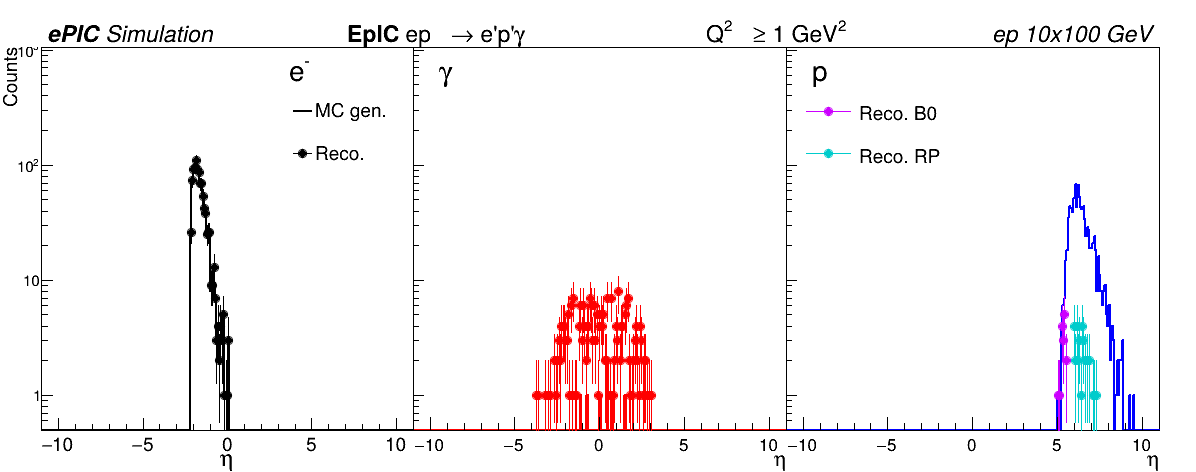
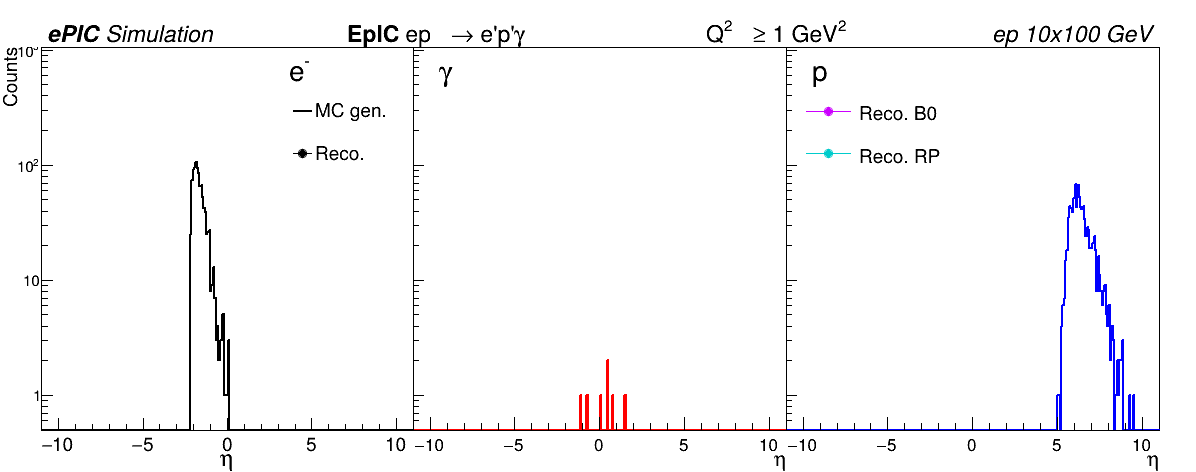
reconstructing x_L and 't' using B0

diff --git a/DDIS_TDR.cpp b/DDIS_TDR.cpp
@@ -209,39 +209,47 @@ void DDIS_TDR(TString fileList){
 
     unsigned int mc_assoc_index = -1;
     // LOOK FOR ELECTRONS AND PHOTONS (using ReconstructedParticleAssociations)
-    for(unsigned int iAssoc{0}; iAssoc < assoc_rec_id.GetSize(); iAssoc++){
-      mc_assoc_index = assoc_sim_id[iAssoc];
+    // for(unsigned int iAssoc{0}; iAssoc < assoc_rec_id.GetSize(); iAssoc++){
+    //   mc_assoc_index = assoc_sim_id[iAssoc];
 	
-      // If reco track isn't associated to an MC track, then skip
-      if(mc_assoc_index == -1) continue;
+    //   // If reco track isn't associated to an MC track, then skip
+    //   if(mc_assoc_index == -1) continue;
 	
-      assoctrk.SetXYZ(mc_px_array[mc_assoc_index], mc_py_array[mc_assoc_index], mc_pz_array[mc_assoc_index]); 
-      P3MVector q_assoc(assoctrk.X(),assoctrk.Y(),assoctrk.Z(),mc_mass_array[mc_assoc_index]);
-      undoAfterburn(q_assoc);
+    //   assoctrk.SetXYZ(mc_px_array[mc_assoc_index], mc_py_array[mc_assoc_index], mc_pz_array[mc_assoc_index]); 
+    //   P3MVector q_assoc(assoctrk.X(),assoctrk.Y(),assoctrk.Z(),mc_mass_array[mc_assoc_index]);
+    //   undoAfterburn(q_assoc);
 
-      recotrk.SetXYZ(re_px_array[iAssoc], re_py_array[iAssoc], re_pz_array[iAssoc]);
-      P3MVector q_reco(recotrk.X(),recotrk.Y(),recotrk.Z(),mc_mass_array[mc_assoc_index]);
-      undoAfterburn(q_reco);
+    //   recotrk.SetXYZ(re_px_array[iAssoc], re_py_array[iAssoc], re_pz_array[iAssoc]);
+    //   P3MVector q_reco(recotrk.X(),recotrk.Y(),recotrk.Z(),mc_mass_array[mc_assoc_index]);
+    //   undoAfterburn(q_reco);
 	
-      // Fill track vectors based on associated PID
-      // Electrons
-      if(mc_genStatus_array[mc_assoc_index] == 1 && mc_pdg_array[mc_assoc_index] == 11)	scate4_rec.push_back(q_reco); 
-      // Photons
-      if(mc_genStatus_array[mc_assoc_index] == 1 && mc_pdg_array[mc_assoc_index] == 22){ 
-	      scatg4_aso.push_back(q_assoc); 
-	      scatg4_rec.push_back(q_reco); 
-      }
-    } // End of associations loop
+    //   // Fill track vectors based on associated PID
+    //   // Electrons
+    //   if(mc_genStatus_array[mc_assoc_index] == 1 && mc_pdg_array[mc_assoc_index] == 11)	scate4_rec.push_back(q_reco); 
+    //   // Photons
+    //   if(mc_genStatus_array[mc_assoc_index] == 1 && mc_pdg_array[mc_assoc_index] == 22){ 
+	  //     scatg4_aso.push_back(q_assoc); 
+	  //     scatg4_rec.push_back(q_reco); 
+    //   }
+    // } // End of associations loop
     
     mc_assoc_index=-1; // Reset association index
     // THEN LOOK FOR PROTONS (using ReconstructedTruthSeededChargedParticleAssociations)
     for(unsigned int iTSAssoc{0}; iTSAssoc < tsassoc_rec_id.GetSize(); iTSAssoc++){
       mc_assoc_index = tsassoc_sim_id[iTSAssoc];
-	
+      
       // Only care about protons here (PID 2212)
       if(mc_assoc_index != -1 && mc_genStatus_array[mc_assoc_index] == 1 && mc_pdg_array[mc_assoc_index] == 2212){
 	      recotrk.SetXYZ(tsre_px_array[iTSAssoc], tsre_py_array[iTSAssoc], tsre_pz_array[iTSAssoc]);
 	      P3MVector q_reco(recotrk.X(), recotrk.Y(), recotrk.Z(), mc_mass_array[mc_assoc_index]);
+        // i should have a x_L cut here x_L>0.97 (?): ZEUS EPJC1 81 (1998)
+        double x_L=0;
+        x_L = recotrk.Z()/beamp4.Z();
+
+        if (x_L > 0.9){
+        std::cout << "x_L: " << x_L << std::endl;// x_L reconstructed
+        std::cout << "  t: " << -recotrk.Perp2()/x_L << std::endl;
+        }
 	      undoAfterburn(q_reco);
 	      scatp4_rec.push_back(q_reco); 
       }
@@ -275,15 +283,16 @@ void DDIS_TDR(TString fileList){
       if(scatp4_gen.size() == 1 && scatp4_gen[0].Theta()<0.02){
 	      h_eta_MCp->Fill(scatp4_gen[0].Eta());
 	      // Add exclusivity cuts for t-distribution
-	      if(scate4_gen.size() == 1 && scatg4_gen.size() == 1){
+	      // if(scate4_gen.size() == 1 && scatg4_gen.size() == 1){
 	        // Need to calculate kinematics before cutting on them
-	        Float_t fM2miss = calcM2Miss_3Body(beame4, beamp4, scate4_gen[0], scatp4_gen[0], scatg4_gen[0]);
+	        // Float_t fM2miss = calcM2Miss_3Body(beame4, beamp4, scate4_gen[0], scatp4_gen[0], scatg4_gen[0]);
 	        Float_t ft = calcT(beamp4, scatp4_gen[0]);
-          std:: cout <<  std::setw(21)  << "[DEBUG] MC level 't': " << ft << std::endl;
+          // std:: cout <<  std::setw(21)  << "[DEBUG] MC level 't': " << ft << std::endl;
 	    
 	        // Want MM2 to be close to zero
-	        if(TMath::Abs(fM2miss) < 1) h_t_MC->Fill(ft);
-	      } // Exclusivity required
+	        // if(TMath::Abs(fM2miss) < 1) h_t_MC->Fill(ft);
+          h_t_MC->Fill(ft);
+	      // } // Exclusivity required
       } // Proton tracks done
     } // Q2 limit
     
@@ -292,7 +301,7 @@ void DDIS_TDR(TString fileList){
     if(scate4_rec.size() == 0) fQ2 = 0;
     else fQ2 = calcQ2(beame4, scate4_rec[0]);
     // Eta (inclusive tracks)
-    if(fQ2 >= 1){
+    if(fQ2 >= 1){// >= 1 in Olivers code, i tried with 0
       // e'
       if(scate4_rec.size() == 1) h_eta_RPe->Fill(scate4_rec[0].Eta());
       // gamma
@@ -302,30 +311,32 @@ void DDIS_TDR(TString fileList){
       if(scatp4_rec.size() == 1 && scatp4_rec[0].Theta() > 0.0055 && scatp4_rec[0].Theta() < 0.02){
 	      h_eta_RPp->Fill(scatp4_rec[0].Eta());
 	      // Add exclusivity cuts for t-distribution
-	      if(scate4_rec.size() == 1 && scatg4_rec.size() == 1){
+	      // if(scate4_rec.size() == 1 && scatg4_rec.size() == 1){
 	        // Need to calculate kinematics before cutting on them
-	        Float_t fM2miss = calcM2Miss_3Body(beame4, beamp4, scate4_rec[0], scatp4_rec[0], scatg4_rec[0]);
+	        // Float_t fM2miss = calcM2Miss_3Body(beame4, beamp4, scate4_rec[0], scatp4_rec[0], scatg4_rec[0]);
 	        Float_t ft = calcT(beamp4, scatp4_rec[0]);
-          std:: cout << std::left << std::setw(22)  << "[DEBUG] B0 't': " << ft << std::endl;
+          // std:: cout << std::left << std::setw(22)  << "[DEBUG] B0 't': " << ft << std::endl;
 	    
 	        // Want MM2 to be close to zero
-	        if(TMath::Abs(fM2miss) < 1) h_t_RP->Fill(ft);
-	      } // Exclusivity required
+	        // if(TMath::Abs(fM2miss) < 1) h_t_RP->Fill(ft);
+          h_t_RP->Fill(ft);
+	      // } // Exclusivity required
       } // B0 Proton tracks found
-
       // p' (RP - theta less than 5 mrad)
-      if(scatp4_rom.size() == 1 && scatp4_rom[0].Theta()<0.005){
+      if(scatp4_rom.size() == 1 && scatp4_rom[0].Theta() < 0.005){// 0.005
 	      h_eta_RPPp->Fill(scatp4_rom[0].Eta());
 	      // Add exclusivity cuts for t-distribution
-	      if(scate4_rec.size() == 1 && scatg4_rec.size() == 1){
+	      // if(scate4_rec.size() == 1 && scatg4_rec.size() == 1){
 	        // Need to calculate kinematics before cutting on them
-	        Float_t fM2miss = calcM2Miss_3Body(beame4, beamp4, scate4_rec[0], scatp4_rom[0], scatg4_rec[0]);
+	        // Float_t fM2miss = calcM2Miss_3Body(beame4, beamp4, scate4_rec[0], scatp4_rom[0], scatg4_rec[0]);
 	        Float_t ft = calcT(beamp4, scatp4_rom[0]);
-          std:: cout <<  std::setw(21) << "[DEBUG] RomanPot 't': " << ft << std::endl;
+          // std:: cout <<  std::setw(21) << "[DEBUG] RomanPot 't': " << ft << std::endl;
 	    
 	        // Want MM2 to be close to zero
-	        if(TMath::Abs(fM2miss) < 1 && ft < 0.3) h_t_RPP->Fill(ft);
-	      } // Exclusivity required
+	        // if(TMath::Abs(fM2miss) < 1 && ft < 0.3) h_t_RPP->Fill(ft);
+          // if( ft < 0.3) h_t_RPP->Fill(ft);
+          h_t_RPP->Fill(ft);
+	      // } // Exclusivity required
       } // RP Proton tracks found
     } // Q2 limit
     
@@ -468,49 +479,49 @@ void DDIS_TDR(TString fileList){
   lC1p3->Draw();
 
   // CANVAS 2: T-DISTRIBUTION
-  // TCanvas* c2 = new TCanvas("c2","",1200,800);
-  // h_t_MC->SetMinimum(1);
-  // gPad->SetLogy(1);
-  // h_t_MC->GetXaxis()->SetTitle("|t| [GeV^{2}]");
-  // h_t_MC->GetYaxis()->SetTitle("Counts / 0.02 GeV^{2}");
-  // h_t_MC->SetLineColor(kBlack);
-  // h_t_MC->SetLineWidth(2);
-  // h_t_MC->Draw();
-  // h_t_RP->SetLineColor(kBlue);
-  // h_t_RP->SetMarkerColor(kBlue);
-  // h_t_RP->SetMarkerStyle(20);
-  // h_t_RP->Draw("pesame");
-  // h_t_RPP->SetLineColor(kCyan+1);
-  // h_t_RPP->SetMarkerColor(kCyan+1);
-  // h_t_RPP->SetMarkerStyle(20);
-  // h_t_RPP->Draw("pesame");
-  // // Create header text objects
-  // TLatex* tHead1 = new TLatex(0.10, 0.91, sHead1);
-  // tHead1->SetNDC();
-  // tHead1->SetTextSize(30);
-  // tHead1->SetTextFont(43);
-  // tHead1->SetTextColor(kBlack);
-  // TLatex* tHead2 = new TLatex(0.74, 0.91, sHead2);
-  // tHead2->SetNDC();
-  // tHead2->SetTextSize(30);
-  // tHead2->SetTextFont(43);
-  // tHead2->SetTextColor(kBlack);
-  // tHead1->Draw("same");
-  // tHead2->Draw("same");
-  // // Add legend
-  // TLatex* tC2 = new TLatex(0.58, 0.83, "#splitline{#bf{EpIC} ep #rightarrow e'p'#gamma, Q^{2} #geq 1 GeV^{2}}{t_{RP} #leq 0.3 GeV^{2}, M_{miss}^{2} < 1 GeV^{2}}");
-  // tC2->SetNDC();
-  // tC2->SetTextSize(30);
-  // tC2->SetTextFont(43);
-  // tC2->SetTextColor(kBlack);
-  // tC2->Draw("same");
-  // TLegend* lC2 = new TLegend(0.57, 0.6, 0.8, 0.77);
-  // lC2->SetLineColorAlpha(kWhite,0);
-  // lC2->SetFillColorAlpha(kWhite,0);
-  // lC2->AddEntry(h_t_MC, "#bf{EpIC} MC gen.", "l");
-  // lC2->AddEntry(h_t_RP, "Reco. B0", "lp");
-  // lC2->AddEntry(h_t_RPP, "Reco. RP", "lp");
-  // lC2->Draw();
+  TCanvas* c2 = new TCanvas("c2","",1200,800);
+  h_t_MC->SetMinimum(0.1);
+  gPad->SetLogy(1);
+  h_t_MC->GetXaxis()->SetTitle("|t| [GeV^{2}]");
+  h_t_MC->GetYaxis()->SetTitle("Counts / 0.02 GeV^{2}");
+  h_t_MC->SetLineColor(kBlack);
+  h_t_MC->SetLineWidth(2);
+  h_t_MC->Draw();
+  h_t_RP->SetLineColor(kBlue);
+  h_t_RP->SetMarkerColor(kBlue);
+  h_t_RP->SetMarkerStyle(20);
+  h_t_RP->Draw("pesame");
+  h_t_RPP->SetLineColor(kCyan+1);
+  h_t_RPP->SetMarkerColor(kCyan+1);
+  h_t_RPP->SetMarkerStyle(20);
+  h_t_RPP->Draw("pesame");
+  // Create header text objects
+  TLatex* tHead1 = new TLatex(0.10, 0.91, sHead1);
+  tHead1->SetNDC();
+  tHead1->SetTextSize(30);
+  tHead1->SetTextFont(43);
+  tHead1->SetTextColor(kBlack);
+  TLatex* tHead2 = new TLatex(0.74, 0.91, sHead2);
+  tHead2->SetNDC();
+  tHead2->SetTextSize(30);
+  tHead2->SetTextFont(43);
+  tHead2->SetTextColor(kBlack);
+  tHead1->Draw("same");
+  tHead2->Draw("same");
+  // Add legend
+  TLatex* tC2 = new TLatex(0.58, 0.83, "#splitline{#bf{EpIC} ep #rightarrow e'p'#gamma, Q^{2} #geq 1 GeV^{2}}{t_{RP} #leq 0.3 GeV^{2}}");
+  tC2->SetNDC();
+  tC2->SetTextSize(30);
+  tC2->SetTextFont(43);
+  tC2->SetTextColor(kBlack);
+  tC2->Draw("same");
+  TLegend* lC2 = new TLegend(0.57, 0.6, 0.8, 0.77);
+  lC2->SetLineColorAlpha(kWhite,0);
+  lC2->SetFillColorAlpha(kWhite,0);
+  lC2->AddEntry(h_t_MC, "#bf{EpIC} MC gen.", "l");
+  lC2->AddEntry(h_t_RP, "Reco. B0", "lp");
+  lC2->AddEntry(h_t_RPP, "Reco. RP", "lp");
+  lC2->Draw();
 
   // CANVAS 3A: PHOTON ANGLE RESOLUTION (INSET)
   TCanvas* c3 = new TCanvas("c3","",1200,800);
@@ -557,8 +568,8 @@ void DDIS_TDR(TString fileList){
   //---------------------------------------------------------
   c1->SaveAs("figs/DDIS_eta.png");
   c1->Close();
-  // c2->SaveAs("figs/DDIS_t.png");
-  // c2->Close();
+  c2->SaveAs("figs/DDIS_t.png");
+  c2->Close();
   c3->SaveAs("figs/DDIS_photres.png");
   c3->Close();
 
